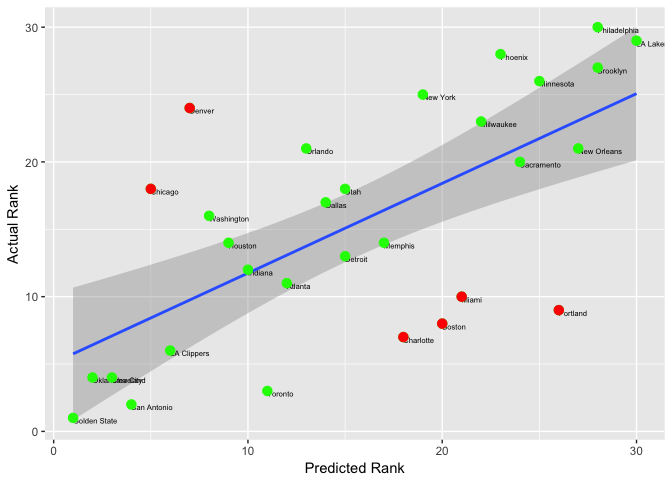
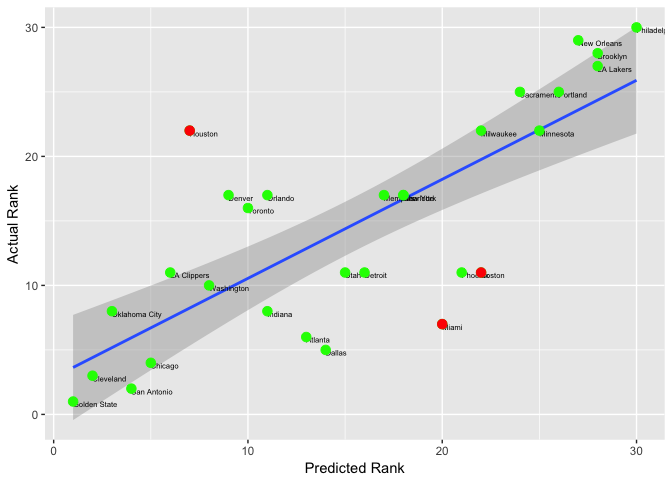
fix reporting

diff --git a/readme.md b/readme.md
@@ -134,7 +134,7 @@ ft8_rankings <- read.csv(f1) %>% rename(team=selected_team)
  
 all_rankings <- read.csv(f2) %>%
   inner_join(ft8_rankings, by="team") %>%
-  mutate(elastic_ranking=min_rank(-pred_season_win_rate),
+  mutate(elastic_ranking=min_rank(-season_win_rate),
          FiveThirtyEight=min_rank(-pred_win_rate_538)) %>%
   select(team, conference, division, elastic_ranking, FiveThirtyEight) %>%
   arrange(elastic_ranking)
@@ -145,30 +145,30 @@ kable(all_rankings)
 | team          | conference | division  |  elastic\_ranking|  FiveThirtyEight|
 |:--------------|:-----------|:----------|-----------------:|----------------:|
 | Cleveland     | East       | Central   |                 1|                2|
-| Golden State  | West       | Pacific   |                 1|                1|
+| Golden State  | West       | Pacific   |                 2|                1|
 | LA Clippers   | West       | Pacific   |                 3|                2|
 | Atlanta       | East       | Southeast |                 4|               12|
-| Houston       | West       | Southwest |                 5|                6|
-| Chicago       | East       | Central   |                 6|                6|
-| San Antonio   | West       | Southwest |                 6|                4|
+| Chicago       | East       | Central   |                 5|                6|
+| Houston       | West       | Southwest |                 6|                6|
+| San Antonio   | West       | Southwest |                 7|                4|
 | Portland      | West       | Northwest |                 8|               13|
 | Oklahoma City | West       | Northwest |                 9|                9|
 | Toronto       | East       | Atlantic  |                10|                5|
-| Boston        | East       | Atlantic  |                11|               11|
 | Charlotte     | East       | Southeast |                11|                9|
+| Boston        | East       | Atlantic  |                12|               11|
 | Utah          | West       | Northwest |                13|                6|
 | LA Lakers     | West       | Pacific   |                14|               19|
 | Memphis       | West       | Southwest |                15|               13|
-| Indiana       | East       | Central   |                16|               21|
-| Milwaukee     | East       | Central   |                17|               23|
-| Orlando       | East       | Southeast |                17|               20|
-| Denver        | West       | Northwest |                19|               17|
-| Detroit       | East       | Central   |                20|               15|
-| Minnesota     | West       | Northwest |                21|               16|
-| New York      | East       | Atlantic  |                22|               18|
+| Milwaukee     | East       | Central   |                16|               23|
+| Denver        | West       | Northwest |                17|               17|
+| Indiana       | East       | Central   |                18|               21|
+| Detroit       | East       | Central   |                19|               15|
+| Orlando       | East       | Southeast |                20|               20|
+| New York      | East       | Atlantic  |                21|               18|
+| Minnesota     | West       | Northwest |                22|               16|
 | Sacramento    | West       | Pacific   |                23|               25|
+| Brooklyn      | East       | Atlantic  |                24|               29|
 | Washington    | East       | Southeast |                24|               21|
-| Brooklyn      | East       | Atlantic  |                25|               29|
 | Phoenix       | West       | Pacific   |                26|               28|
 | New Orleans   | West       | Southwest |                27|               27|
 | Miami         | East       | Southeast |                28|               23|
@@ -284,7 +284,7 @@ mutate(game_level, match=as.numeric(selected_team_win==d_pred_selected_team_win)
 print(paste0("AUROC = ", AUC(game_level$selected_team_win, game_level$prob_selected_team_win_d)[1]))
 ```
 
-    ## [1] "AUROC = 0.725236878757045"
+    ## [1] "AUROC = 0.725354145468453"
 
 Note that the model is most accurate for the "tail teams" such as Golden State and Philadelphia, which is to be expected. There are a some teams where the model completely missed the mark -- e.g., Chicago. In the defense of the model, these predictions were only made 11 games into the season.
 
